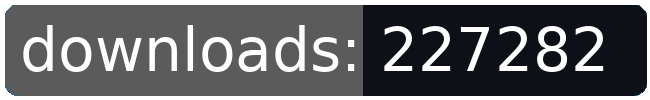
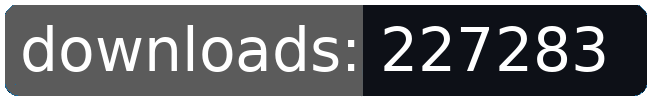
dl log written

Changed region(s): [[0.8615, 0.42, 0.9538, 0.72], [0.8615, 0.27, 0.9231, 0.33]]

diff --git a/README.md b/README.md
@@ -186,8 +186,8 @@
 		<td>6515</td>
 		<td>6526</td>
 		<td>6544</td>
-		<td>6556</td>
-		<td>+ 12</td>
+		<td>6557</td>
+		<td>+ 13</td>
 	</tr>
 	<tr>
 		<td>gegno.pirates</td>
@@ -516,8 +516,8 @@
 		<td></td>
 		<td></td>
 		<td></td>
-		<td>227282</td>
-		<td>604</td>
+		<td>227283</td>
+		<td>605</td>
 	</tr>
 </table>
 </sub></sup>
@@ -575,8 +575,8 @@
 		<td>6515</td>
 		<td>6526</td>
 		<td>6544</td>
-		<td>6556</td>
-		<td>+ 12</td>
+		<td>6557</td>
+		<td>+ 13</td>
 	</tr>
 	<tr>
 		<td>combat.ai</td>
@@ -1037,8 +1037,8 @@
 		<td></td>
 		<td></td>
 		<td></td>
-		<td>227282</td>
-		<td>604</td>
+		<td>227283</td>
+		<td>605</td>
 	</tr>
 </table>
 </sub></sup>